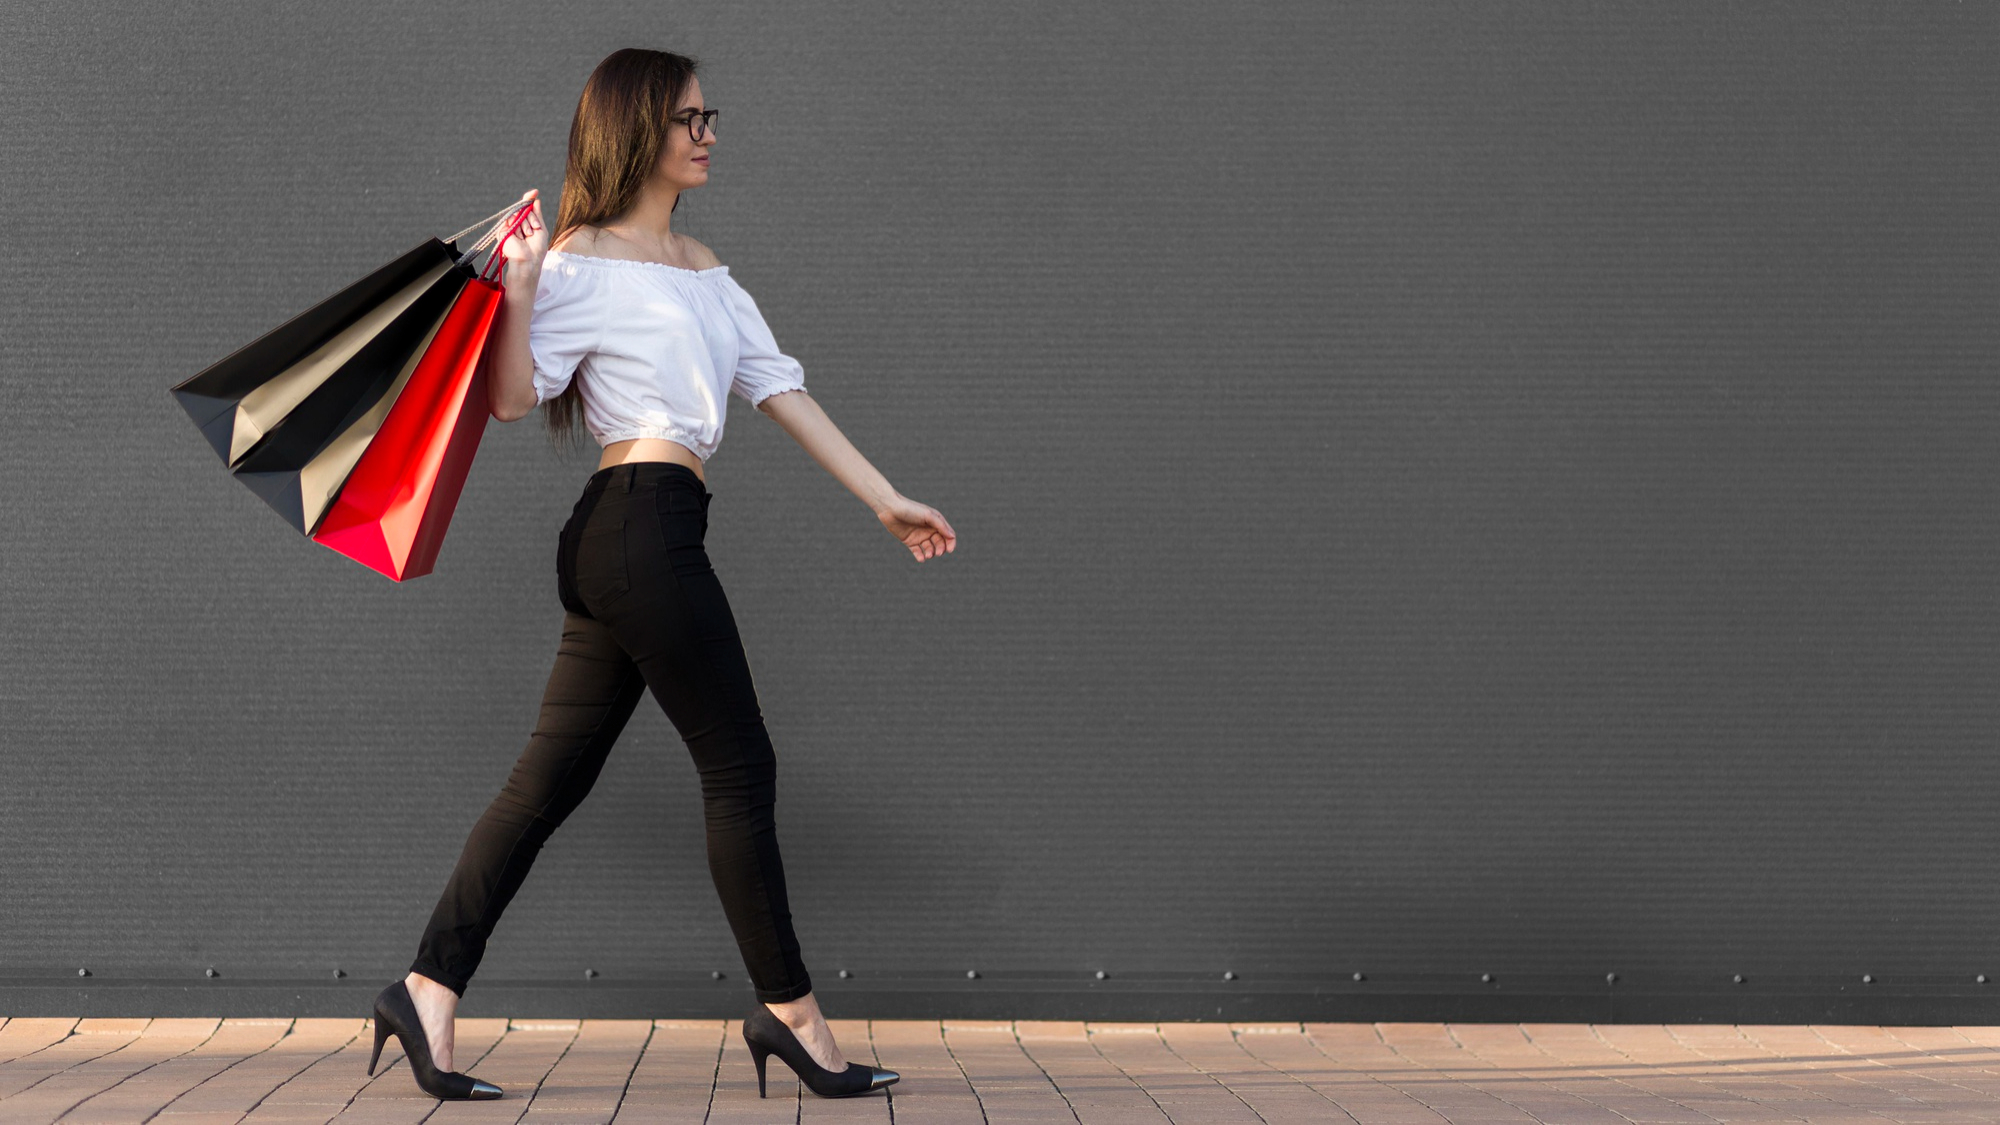
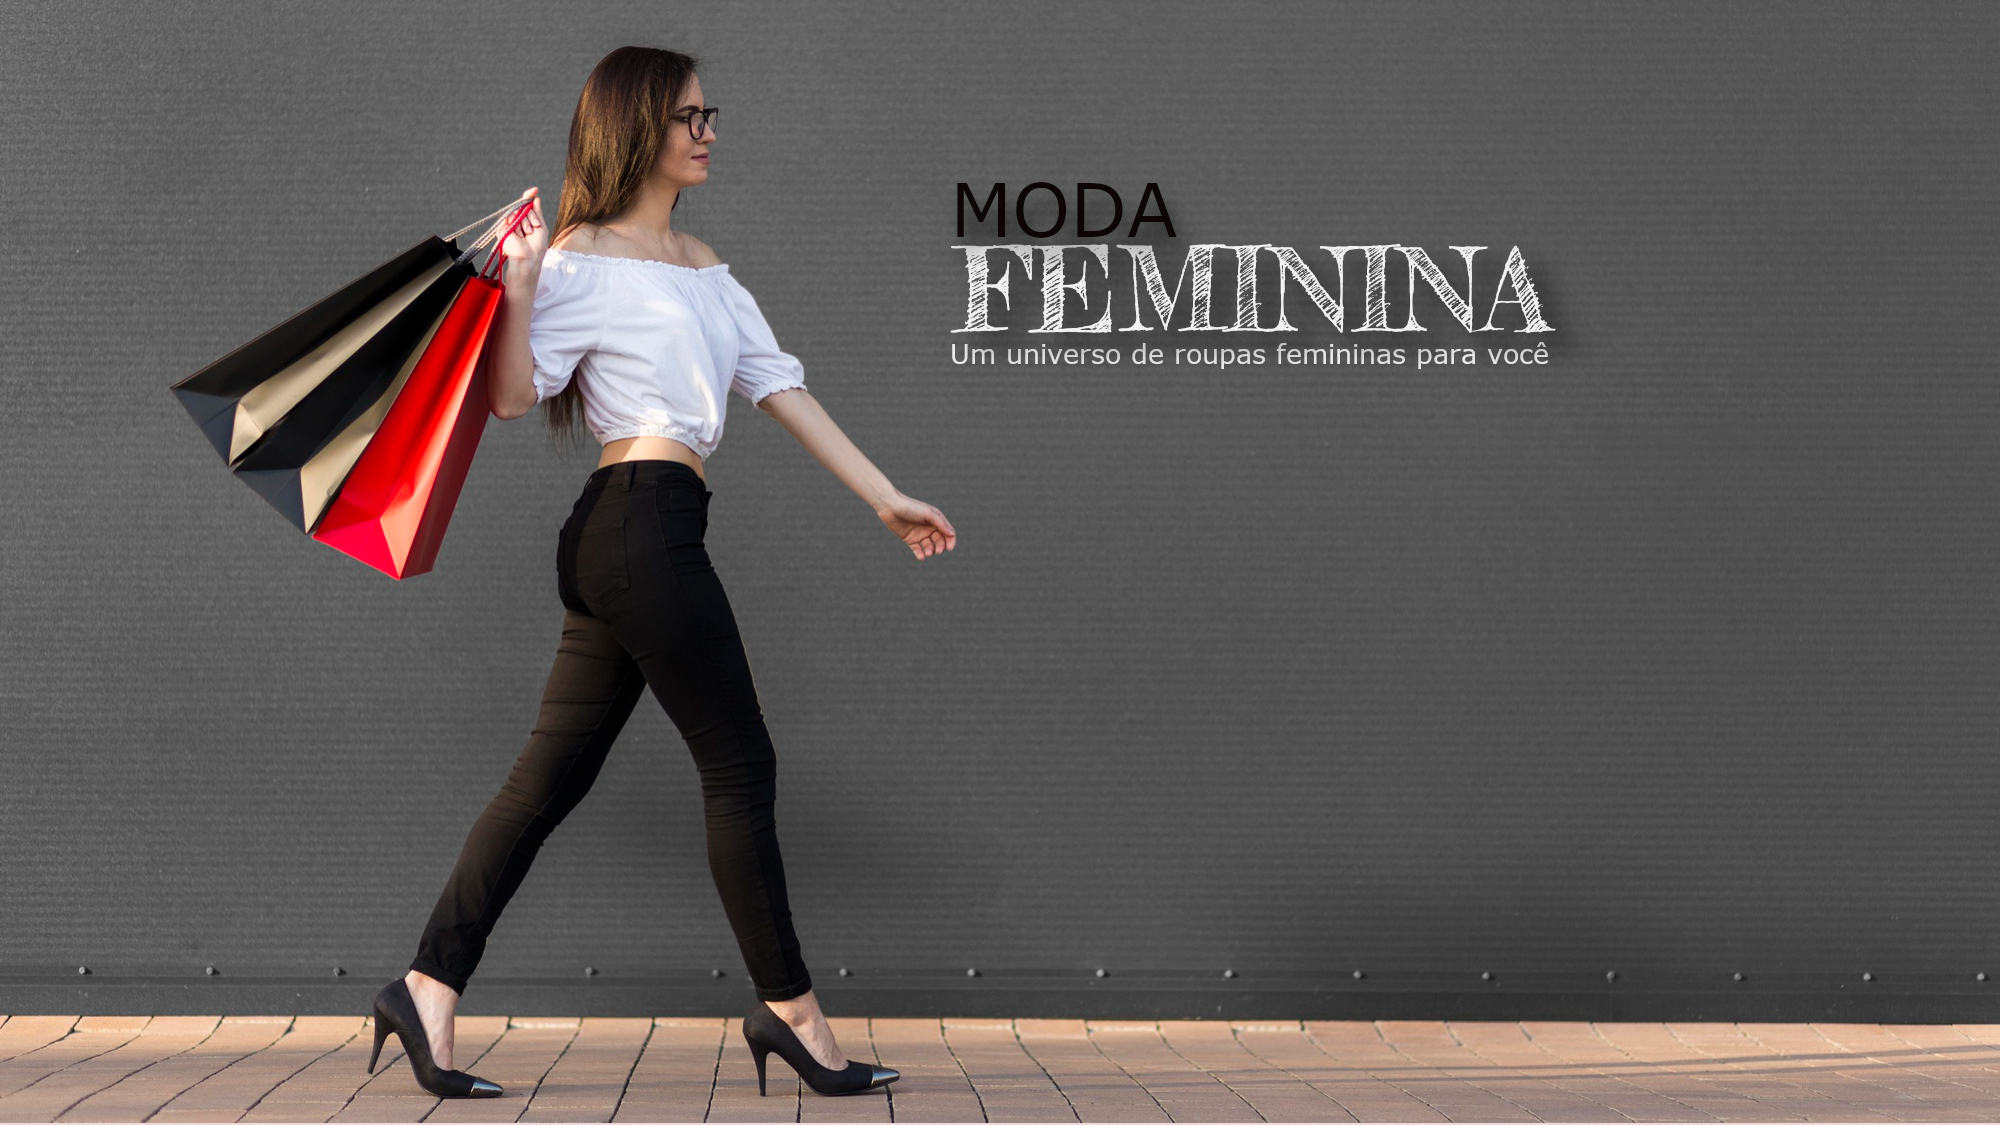
Header finalizado

diff --git a/src/views/home/index.js b/src/views/home/index.js
@@ -1,16 +1,27 @@
-import React from 'react';
+import React, {useEffect, useState} from 'react';
 
 // MEUS IMPORTS
 import './style.css';
+import imgCapaHeader from '../../assets/img-nanda-fashion003.jpg';
 import Navbar from '../../components/navbar';
 
 function Home(){
+    
+
     return(
         <>
-            <header className="">
+            <header >
                 <Navbar />
-                <div className='container-fluid banner-principal'></div>
-                <h1>teste</h1>
+                <div className='container-fluid p-0 banner-principal'>
+                    <img src={imgCapaHeader} class="img-fluid banner-principal-img " alt="Imagem Capa" />
+                    {
+                        window.innerWidth > 800 ? <div class="banner-principal-saiba-mais-grende">
+                                <a className="grande" href="">Saiba Mais</a>
+                            </div>
+                        :
+                        null
+                    }
+                </div>
             </header>
         </>
     );

diff --git a/src/views/home/style.css b/src/views/home/style.css
@@ -1,9 +1,32 @@
-header div.banner-principal{
-    background-image: linear-gradient(rgba(0,0,0,0.7), rgba(0,0,0,0)), url(../../assets/img-nanda-fashion003.jpg);
-    background-size: cover;
-    width: 100%;
-    height: 100vh;
-    background-position: center center;
+/*--------------------------*/
+/*  ELEMENTOS DO HEADER     */
+/*--------------------------*/
 
-    position: relative;
+header div.banner-principal img.banner-principal-img{
+    background-image: linear-gradient(rgba(0,0,0,0.7), rgba(0,0,0,0));
+    background-size: cover;
+    min-width: 100%;
+    max-height: 838px;
+    min-height: 400px;
 }
+
+div.banner-principal-saiba-mais-grende{
+    position: absolute;
+    top: 45%;
+    left: 48%;
+    padding: 1rem 2rem;
+    background-color: #000;
+    box-shadow: 0 1px 10px #333;
+}
+
+div.banner-principal-saiba-mais-grende:hover{
+    opacity: .8;
+}
+
+div.banner-principal-saiba-mais-grende a{
+    text-decoration: none;
+    color: #FFF;
+    font-size: 110%;
+}
+
+
